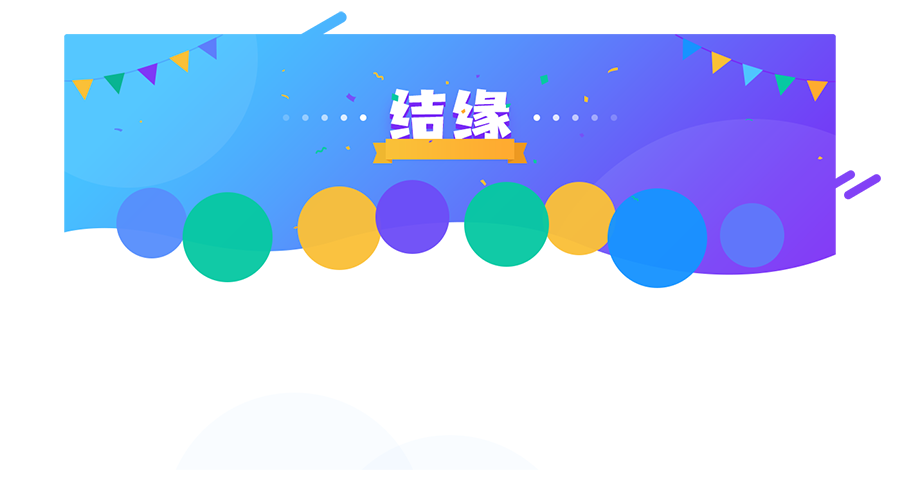
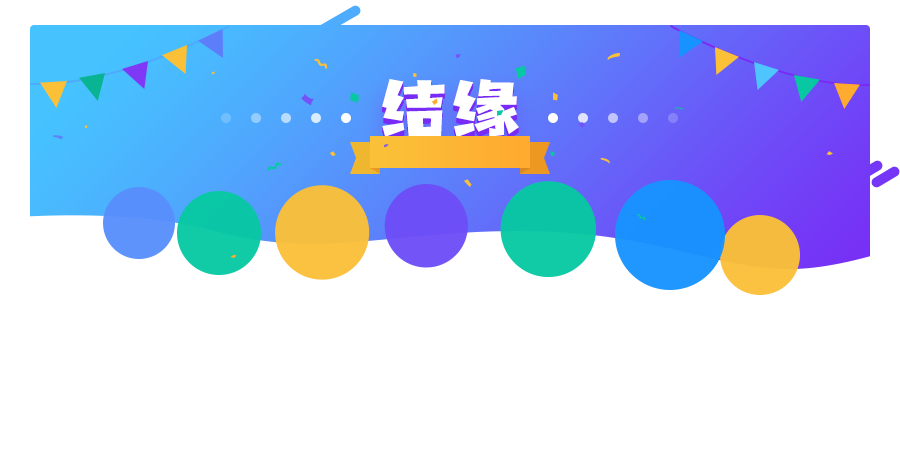
修改苗木结缘UI

Changed region(s): [[0.0311, 0.0, 1.0, 0.6533], [0.6533, 0.1244, 0.6844, 0.1556], [0.3422, 0.1244, 0.3733, 0.1556]]

diff --git a/src/Dashboard/components/OnSite/AdoptTreeMessModal.js b/src/Dashboard/components/OnSite/AdoptTreeMessModal.js
@@ -82,7 +82,6 @@ class AdoptTreeMessModal extends Component {
         const {
             seedlingMess,
             treeMess,
-            curingMess,
             adoptTreeMess
         } = this.props;
         const {
@@ -112,10 +111,10 @@ class AdoptTreeMessModal extends Component {
                 <div className='adoptTreeMess-background'>
                     <img src={closeImg}
                         onClick={this.handleTreeModalCancel.bind(this)}
-                        style={{ marginLeft: 736, marginTop: -23, cursor: 'pointer' }} />
+                        className='adoptTreeMess-modal-closeImg' />
                     <Row className='adoptTreeMess-modal-top-layout'>
-                        <Col span={8} style={{ paddingLeft: 101, paddingTop: 0 }}>
-                            <img src={defaultUserImg} style={{width: 95, height: 95}} />
+                        <Col span={8} style={{ paddingLeft: 130, paddingTop: 27 }}>
+                            <img src={defaultUserImg} style={{width: 72, height: 72}} />
                             <div className='adoptTreeMess-modal-top-name' title={name}>
                                 {/* 恐怖如斯 */}
                                 { name || '.'}
@@ -127,8 +126,8 @@ class AdoptTreeMessModal extends Component {
                                 {adoptTreeMess.AdoptTime ? moment(adoptTreeMess.AdoptTime).format('YYYY-MM-DD HH:mm:ss') : ''}
                             </div>
                         </Col>
-                        <Col span={8} style={{ paddingLeft: 58, paddingTop: 0 }}>
-                            <img src={defaultTreeImg} style={{width: 95, height: 95}} />
+                        <Col span={8} style={{ paddingLeft: 98, paddingTop: 27 }}>
+                            <img src={defaultTreeImg} style={{width: 72, height: 72}} />
                             <div className='adoptTreeMess-modal-top-name' title={seedlingMess.TreeTypeName ? seedlingMess.TreeTypeName : ''}>
                                 {/* 桀桀桀桀桀桀桀桀桀桀桀桀桀桀 */}
                                 {seedlingMess.TreeTypeName ? seedlingMess.TreeTypeName : '.'}
@@ -137,107 +136,95 @@ class AdoptTreeMessModal extends Component {
                     </Row>
 
                     <div className='adoptTreeMess-curingTaskType-layout'>
-                        <div style={{paddingLeft: 70, paddingTop: 9}}>
+                        <div style={{paddingLeft: 125, paddingTop: 14}}>
                             <div className='adoptTreeMess-curingTaskTypeName'
-                                style={{fontSize: 16}}
+                                style={{fontSize: 14}}
                             >
                                 排涝
                             </div>
                             <div className='adoptTreeMess-curingTaskTypeNum'
-                                style={{fontSize: 22}}
+                                style={{fontSize: 20}}
                             >
                                 {this.handleTypeData('排涝')}
                             </div>
                         </div>
-                        <div style={{paddingLeft: 39, paddingTop: 12}}>
+                        <div style={{paddingLeft: 50, paddingTop: 21}}>
                             <div className='adoptTreeMess-curingTaskTypeName'
-                                style={{fontSize: 21}}
+                                style={{fontSize: 16}}
                             >
                                 其他
                             </div>
                             <div className='adoptTreeMess-curingTaskTypeNum'
-                                style={{fontSize: 32}}
+                                style={{fontSize: 24}}
                             >
                                 {this.handleTypeData('其他')}
                             </div>
                         </div>
-                        <div style={{paddingLeft: 58, paddingTop: 18}}>
+                        <div style={{paddingLeft: 53, paddingTop: 23}}>
                             <div className='adoptTreeMess-curingTaskTypeName'
-                                style={{fontSize: 13}}
+                                style={{fontSize: 14}}
                             >
                                 病虫害防治
                             </div>
                             <div className='adoptTreeMess-curingTaskTypeNum'
-                                style={{fontSize: 26}}
+                                style={{fontSize: 28}}
                             >
                                 {this.handleTypeData('病虫害防治')}
                             </div>
                         </div>
-                        <div style={{paddingLeft: 23, paddingTop: 0}}>
+                        <div style={{paddingLeft: 54, paddingTop: 15}}>
                             <div className='adoptTreeMess-curingTaskTypeName'
-                                style={{fontSize: 18}}
+                                style={{fontSize: 14}}
                             >
                                 修剪
                             </div>
                             <div className='adoptTreeMess-curingTaskTypeNum'
-                                style={{fontSize: 26}}
+                                style={{fontSize: 24}}
                             >
                                 {this.handleTypeData('修剪')}
                             </div>
                         </div>
-                        <div style={{paddingLeft: 55, paddingTop: 0}}>
+                        <div style={{paddingLeft: 93, paddingTop: 13}}>
                             <div className='adoptTreeMess-curingTaskTypeName'
-                                style={{fontSize: 21}}
+                                style={{fontSize: 16}}
                             >
                                 除草
                             </div>
                             <div className='adoptTreeMess-curingTaskTypeNum'
-                                style={{fontSize: 32}}
+                                style={{fontSize: 28}}
                             >
                                 {this.handleTypeData('除草')}
                             </div>
                         </div>
-                        <div style={{paddingLeft: 34, paddingTop: 2}}>
+                        <div style={{paddingLeft: 85, paddingTop: 12}}>
                             <div className='adoptTreeMess-curingTaskTypeName'
-                                style={{fontSize: 18}}
+                                style={{fontSize: 20}}
                             >
                                 施肥
                             </div>
                             <div className='adoptTreeMess-curingTaskTypeNum'
-                                style={{fontSize: 24}}
+                                style={{fontSize: 32}}
                             >
                                 {this.handleTypeData('施肥')}
                             </div>
                         </div>
-                        <div style={{paddingLeft: 37, paddingTop: 8}}>
+                        <div style={{paddingLeft: 57, paddingTop: 38}}>
                             <div className='adoptTreeMess-curingTaskTypeName'
-                                style={{fontSize: 24}}
+                                style={{fontSize: 14}}
                             >
                                 浇水
                             </div>
                             <div className='adoptTreeMess-curingTaskTypeNum'
-                                style={{fontSize: 36}}
+                                style={{fontSize: 28}}
                             >
                                 {this.handleTypeData('浇水')}
                             </div>
                         </div>
-                        <div style={{paddingLeft: 53, paddingTop: 20}}>
-                            <div className='adoptTreeMess-curingTaskTypeName'
-                                style={{fontSize: 16}}
-                            >
-                                补植
-                            </div>
-                            <div className='adoptTreeMess-curingTaskTypeNum'
-                                style={{fontSize: 22}}
-                            >
-                                {this.handleTypeData('补植')}
-                            </div>
-                        </div>
                     </div>
-                    <Row style={{ paddingTop: 15, display: 'flex' }}>
-                        <div className='adoptTreeMess-treeMess'>
+                    <Row style={{ paddingTop: 0, display: 'flex', marginLeft: 70, marginRight: 70 }}>
+                        <Col span={12} style={{paddingRight: 5}}>
                             <div className='adoptTreeMess-mrg10'>
-                                <img src={codeImg} style={{marginRight: 10}} />
+                                {/* <img src={codeImg} style={{marginRight: 10}} /> */}
                                 <span className='adoptTreeMess-lineTitle'>苗木编码</span>
                                 <span className='adoptTreeMess-modal-data-text'>
                                     {/* abn2017 */}
@@ -245,7 +232,7 @@ class AdoptTreeMessModal extends Component {
                                 </span>
                             </div>
                             <div className='adoptTreeMess-mrg10'>
-                                <img src={productLocationImg} style={{marginRight: 10}} />
+                                {/* <img src={productLocationImg} style={{marginRight: 10}} /> */}
                                 <span className='adoptTreeMess-lineTitle'>产地</span>
                                 <span className='adoptTreeMess-modal-data-text'>
                                     {/* 定州市大辛庄某某村 */}
@@ -253,7 +240,7 @@ class AdoptTreeMessModal extends Component {
                                 </span>
                             </div>
                             <div className='adoptTreeMess-mrg10'>
-                                <img src={liftTimeImg} style={{marginRight: 10}} />
+                                {/* <img src={liftTimeImg} style={{marginRight: 10}} /> */}
                                 <span className='adoptTreeMess-lineTitle'>起苗时间</span>
                                 <span className='adoptTreeMess-modal-data-text'>
                                     {/* 2018-01-01 12:00:00 */}
@@ -261,7 +248,7 @@ class AdoptTreeMessModal extends Component {
                                 </span>
                             </div>
                             <div className='adoptTreeMess-mrg10'>
-                                <img src={treeLocationImg} style={{marginRight: 10}} />
+                                {/* <img src={treeLocationImg} style={{marginRight: 10}} /> */}
                                 <span className='adoptTreeMess-lineTitle'>栽植定位</span>
                                 <span className='adoptTreeMess-modal-data-text'
                                     title={treeMess.landName ? `${treeMess.landName} - ${treeMess.sectionName} - ${treeMess.SmallClass} - ${treeMess.ThinClass}` : ''}>
@@ -269,10 +256,10 @@ class AdoptTreeMessModal extends Component {
                                     {treeMess.landName ? `${treeMess.landName} - ${treeMess.sectionName} - ${treeMess.SmallClass} - ${treeMess.ThinClass}` : ''}
                                 </span>
                             </div>
-                        </div>
-                        <div className='adoptTreeMess-curingTaskMess'>
+                        </Col>
+                        <Col span={12} style={{paddingLeft: 5}}>
                             <div className='adoptTreeMess-mrg20'>
-                                <img src={curingTaskMessImg} style={{marginRight: 10, marginTop: 2}} />
+                                {/* <img src={curingTaskMessImg} style={{marginRight: 10, marginTop: 2}} /> */}
                                 <span className='adoptTreeMess-lineTitle'>近三次养护详情</span>
                             </div>
                             {
@@ -298,19 +285,19 @@ class AdoptTreeMessModal extends Component {
                             {/* <div className='adoptTreeMess-mrg20'>
                                 <span className='adoptTreeMess-table-type-data' style={{marginRight: 15}} >病虫害防治</span>
                                 <span className='adoptTreeMess-table-person-data' style={{marginRight: 15}} >啊啊啊啊啊啊啊啊</span>
-                                <span className='adoptTreeMess-table-time-data'>2018-01-01 12:00:00 ~ 2018-01-01 12:00:00</span>
+                                <span className='adoptTreeMess-table-time-data'>2018-01-01 12:00 ~ 2018-01-01 12:00</span>
                             </div>
                             <div className='adoptTreeMess-mrg20'>
                                 <span className='adoptTreeMess-table-type-data' style={{marginRight: 15}} >病虫害防治</span>
                                 <span className='adoptTreeMess-table-person-data' style={{marginRight: 15}} >啊啊啊啊啊啊啊啊</span>
-                                <span className='adoptTreeMess-table-time-data'>2018-01-01 12:00:00 ~ 2018-01-01 12:00:00</span>
+                                <span className='adoptTreeMess-table-time-data'>2018-01-01 12:00 ~ 2018-01-01 12:00</span>
                             </div>
                             <div className='adoptTreeMess-mrg20'>
                                 <span className='adoptTreeMess-table-type-data' style={{marginRight: 15}} >病虫害防治</span>
                                 <span className='adoptTreeMess-table-person-data' style={{marginRight: 15}} >啊啊啊啊啊啊啊啊</span>
-                                <span className='adoptTreeMess-table-time-data'>2018-01-01 12:00:00 ~ 2018-01-01 12:00:00</span>
+                                <span className='adoptTreeMess-table-time-data'>2018-01-01 12:00 ~ 2018-01-01 12:00</span>
                             </div> */}
-                        </div>
+                        </Col>
                     </Row>
                 </div>
             </Modal>

diff --git a/src/Dashboard/components/OnSite/AdoptTreeMess.less b/src/Dashboard/components/OnSite/AdoptTreeMess.less
@@ -16,11 +16,16 @@
     }
     .adoptTreeMess-background{
         background-image: url('./TreeAdoptImg/background.png');
-        background-size: 900px 500px;
-        height: 500px;
-        padding-left: 66px;
-        padding-top: 50px;
-        padding-right: 50px;
+        background-size: 900px 450px;
+        height: 450px;
+        // padding-left: 66px;
+        // padding-top: 50px;
+        // padding-right: 50px;
+    }
+    .adoptTreeMess-modal-closeImg {
+        cursor: pointer;
+        padding-left: 837px;
+        padding-top: 40px;
     }
     // 结缘信息
     .adoptTreeMess-modal-top-layout {
@@ -29,15 +34,15 @@
     }
     // 结缘时间
     .adoptTreeMess-modal-top-adopt {
-        margin-left: -8px;
-        padding-top: 67.5px; 
+        text-align: center;
+        padding-top: 87.5px; 
     }
     // 结缘时间
     .adoptTreeMess-modal-top-time {
         text-align: center;
         color: #ffffff;
         font-weight: bold;
-        font-size: 13px;
+        font-size: 14px;
     }
     // 结缘树木的人的名字和树种名称
     .adoptTreeMess-modal-top-name {
@@ -46,12 +51,12 @@
         font-family: "Microsoft YaHei";
         color: #ffffff;
         font-weight: bold;
-        margin-top: 2px;
+        margin-top: 12px;
         table-layout: fixed;
         overflow: hidden;
         text-overflow: ellipsis;
         white-space: nowrap;
-        max-width: 95px;
+        max-width: 72px;
     }
     // 养护信息的整体
     .adoptTreeMess-curingTaskType-layout {
@@ -61,7 +66,7 @@
     // 养护类型的名称
     .adoptTreeMess-curingTaskTypeName {
         text-align: center;
-        font-family: "Microsoft YaHei";
+        // font-family: "Microsoft YaHei";
         color: #ffffff;
     }
     // 各个类型的养护次数
@@ -69,7 +74,7 @@
         text-align: center;
         // font-family: "Microsoft YaHei";
         color: #ffffff;
-        font-weight: bold;
+        // font-weight: bold;
     }
     // 苗木信息整体设置
     .adoptTreeMess-treeMess {
@@ -89,30 +94,34 @@
     .adoptTreeMess-mrg10 {
         white-space: nowrap;
         width: 100%;
-        margin-bottom: 20px;
-        font-size: 12px;
+        margin-bottom: 15px;
+        font-size: 13px;
     }
     // 养护详情的每一行
     .adoptTreeMess-mrg20 {
         white-space: nowrap;
         width: 100%;
-        margin-bottom: 19.8px;
-        font-size: 12px;
+        margin-bottom: 15px;
+        font-size: 13px;
     }
     // 苗木信息的每一行中的标题
     .adoptTreeMess-lineTitle {
         vertical-align: middle;
         color: #1793ff;
+        width: 56px;
+        display: inline-block;
     }
     // 苗木的具体信息
     .adoptTreeMess-modal-data-text {
-        float: right;
+        // float: right;
+        margin-left: 20px;
         vertical-align: middle;
         white-space: nowrap;
-        max-width: 263px;
+        max-width: 300px;
         overflow: hidden;
         text-overflow: ellipsis;
-        padding-top: 2px;
+        // padding-top: 2px;
+        display: inline-block;
     }
     // 养护详情中的养护类型
     .adoptTreeMess-table-type-data {

diff --git a/src/Forest/components/Locmeasureinfo/LocmeasureTable.js b/src/Forest/components/Locmeasureinfo/LocmeasureTable.js
@@ -10,8 +10,7 @@ import {
     Button,
     Input,
     Progress,
-    message,
-    Notification
+    message
 } from 'antd';
 import moment from 'moment';
 import { FOREST_API } from '../../../_platform/api';
@@ -1198,7 +1197,7 @@ export default class LocmeasureTable extends Component {
                 pagination.total = rst.pageinfo.total;
                 pagination.pageSize = size;
 
-                if (bigType == '5') {
+                if (bigType === '5') {
                     this.columns = [
                         {
                             title: '序号',

diff --git a/src/Dashboard/components/OnSite/OnSite.js b/src/Dashboard/components/OnSite/OnSite.js
@@ -9,7 +9,7 @@
  * @Author: ecidi.mingey
  * @Date: 2018-04-26 10:45:34
  * @Last Modified by: ecidi.mingey
- * @Last Modified time: 2018-11-12 09:56:59
+ * @Last Modified time: 2018-11-21 11:41:42
  */
 import React, { Component } from 'react';
 import {
